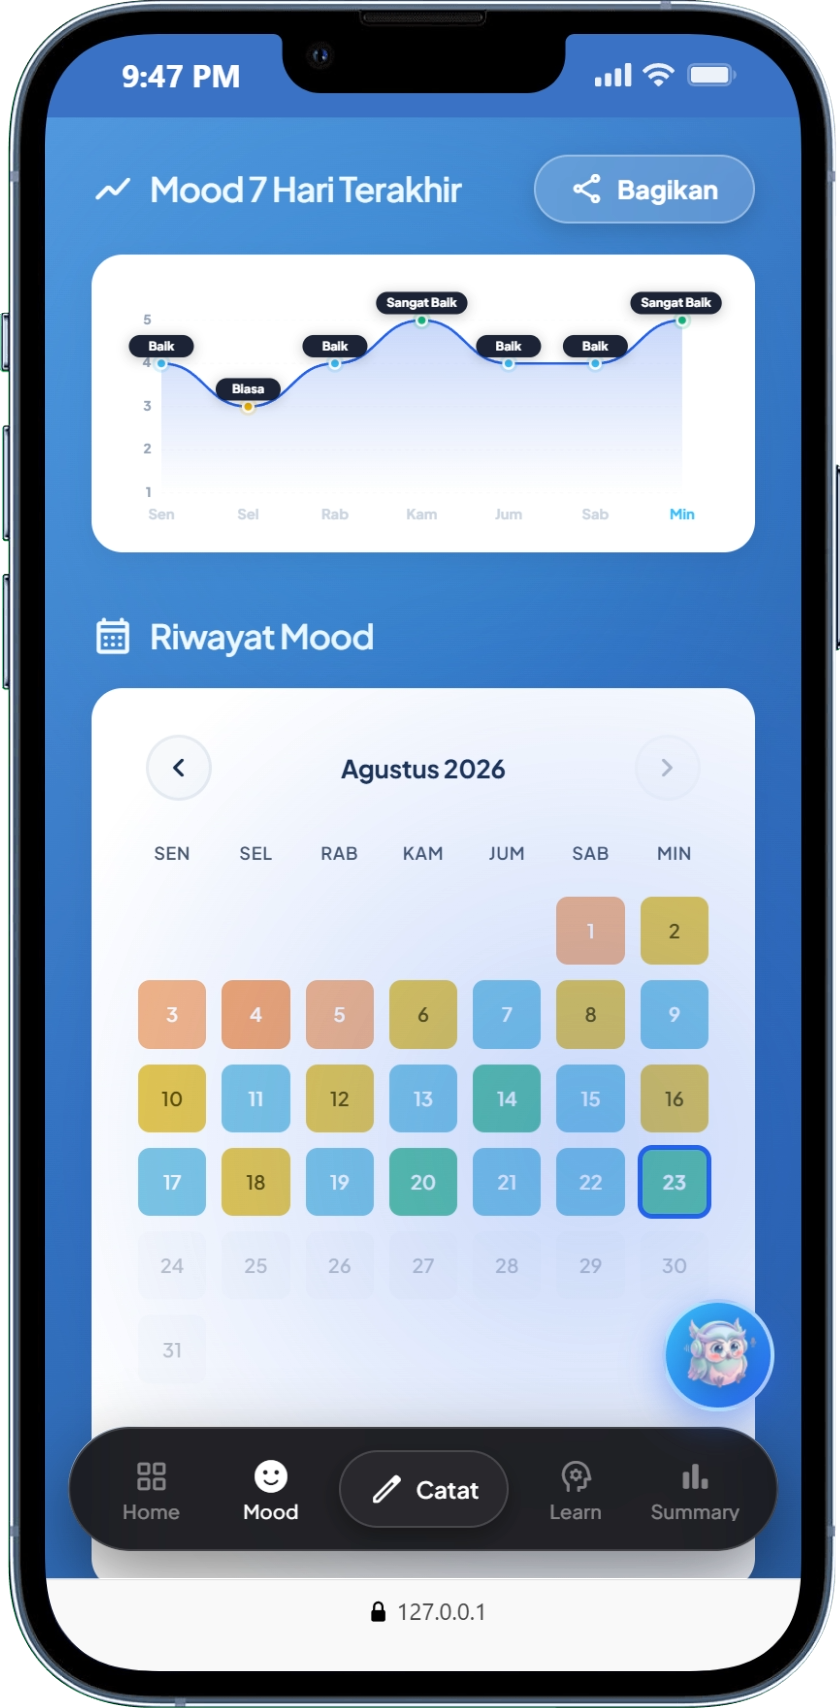
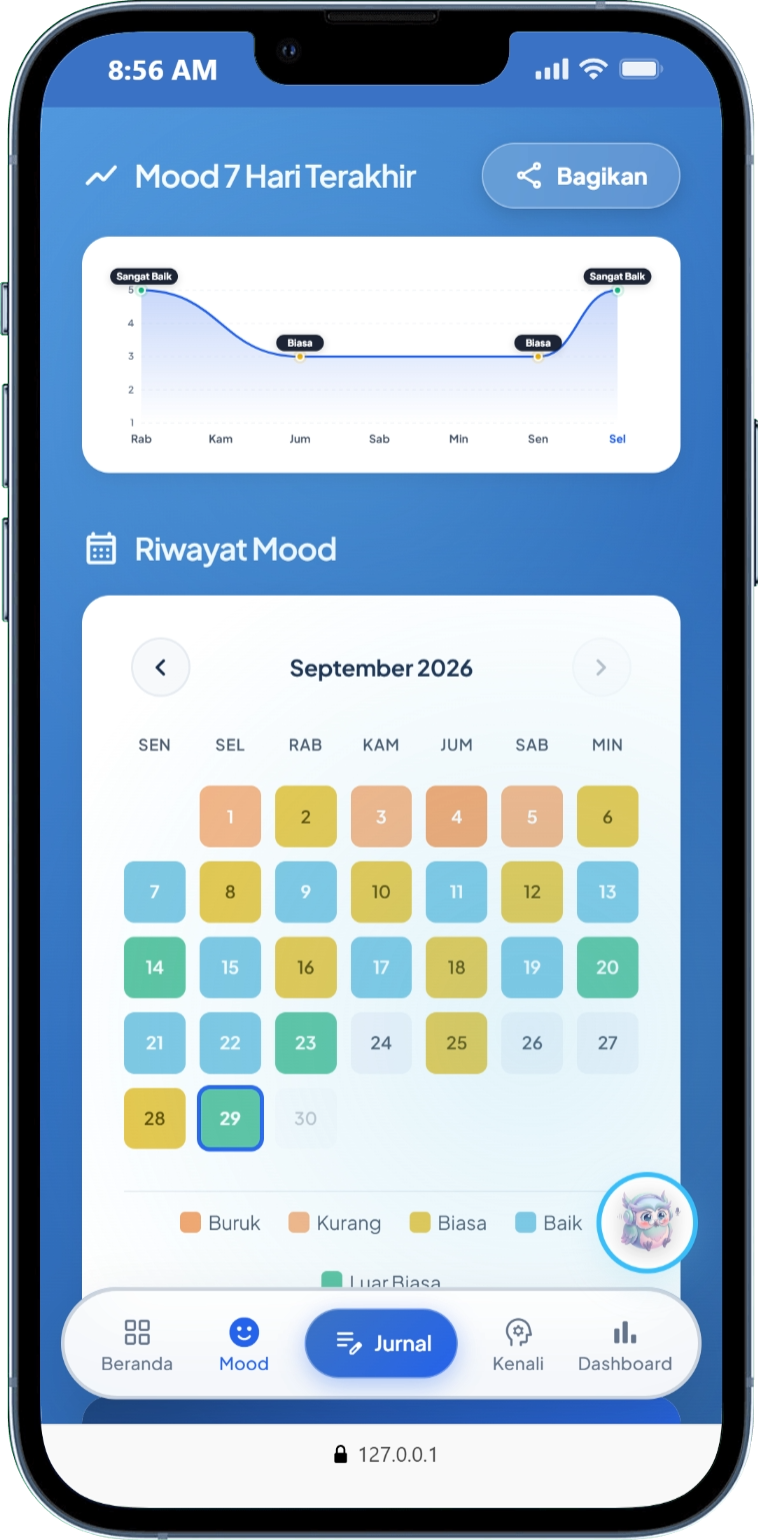
Fix mobile mascot video playback, update check-in default data to September, and hide total check-in badge on mobile

diff --git a/assets/js/storage.js b/assets/js/storage.js
@@ -44,34 +44,55 @@ const Storage = (() => {
     return Math.round(Math.abs((new Date(d1) - new Date(d2)) / oneDay));
   };
 
-  const defaultAugustMoods = [
-    {"date":"2026-08-01","timestamp":1785614400000,"level":2,"score":2,"tags":["lelah"],"note":"Hari yang cukup melelahkan setelah minggu padat"},
-    {"date":"2026-08-02","timestamp":1785700800000,"level":3,"score":3,"tags":["tenang"],"note":"Istirahat santai di rumah"},
-    {"date":"2026-08-03","timestamp":1785787200000,"level":2,"score":2,"tags":["cemas"],"note":"Kecemasan mulai datang jelang awal pekan"},
-    {"date":"2026-08-04","timestamp":1785873600000,"level":1,"score":1,"tags":["stres","lelah"],"note":"Pikiran terbebani dan emosi terasa berat"},
-    {"date":"2026-08-05","timestamp":1785960000000,"level":2,"score":2,"tags":["bingung"],"note":"Coba pelan-pelan menata pikiran"},
-    {"date":"2026-08-06","timestamp":1786046400000,"level":3,"score":3,"tags":["tenang"],"note":"Sudah sedikit lebih stabil"},
-    {"date":"2026-08-07","timestamp":1786132800000,"level":4,"score":4,"tags":["lega"],"note":"Berhasil menyelesaikan tugas tepat waktu"},
-    {"date":"2026-08-08","timestamp":1786219200000,"level":3,"score":3,"tags":["bersyukur"],"note":"Menikmati akhir pekan dengan tenang"},
-    {"date":"2026-08-09","timestamp":1786305600000,"level":4,"score":4,"tags":["semangat"],"note":"Siap menyambut minggu baru"},
-    {"date":"2026-08-10","timestamp":1786392000000,"level":3,"score":3,"tags":["tenang"],"note":"Rutinitas berjalan lancar"},
-    {"date":"2026-08-11","timestamp":1786478400000,"level":4,"score":4,"tags":["bersyukur"],"note":"Mulai rutin grounding dan pernapasan"},
-    {"date":"2026-08-12","timestamp":1786564800000,"level":3,"score":3,"tags":["bingung"],"note":"Ada sedikit dilema tapi bisa diatasi"},
-    {"date":"2026-08-13","timestamp":1786651200000,"level":4,"score":4,"tags":["semangat"],"note":"Merasa energi positif meningkat"},
-    {"date":"2026-08-14","timestamp":1786737600000,"level":5,"score":5,"tags":["bersyukur","tenang"],"note":"Hari yang sangat berkesan dan membahagiakan"},
-    {"date":"2026-08-15","timestamp":1786824000000,"level":4,"score":4,"tags":["lega"],"note":"Perasaan damai dan puas"},
-    {"date":"2026-08-16","timestamp":1786910400000,"level":3,"score":3,"tags":["tenang"],"note":"Meremajakan pikiran"},
-    {"date":"2026-08-17","timestamp":1786996800000,"level":4,"score":4,"tags":["semangat"],"note":"Semangat kemerdekaan dan rasa syukur"},
-    {"date":"2026-08-18","timestamp":1787083200000,"level":3,"score":3,"tags":["lelah"],"note":"Agak lelah tapi tetap bersyukur"},
-    {"date":"2026-08-19","timestamp":1787169600000,"level":4,"score":4,"tags":["tenang"],"note":"Fokus pada hal yang bisa dikontrol"},
-    {"date":"2026-08-20","timestamp":1787256000000,"level":5,"score":5,"tags":["bersyukur","semangat"],"note":"Perkembangan diri terasa nyata!"},
-    {"date":"2026-08-21","timestamp":1787342400000,"level":4,"score":4,"tags":["lega"],"note":"Beban pikiran semakin berkurang"},
-    {"date":"2026-08-22","timestamp":1787428800000,"level":4,"score":4,"tags":["tenang"],"note":"Pikiran jernih dan penuh harapan"},
-    {"date":"2026-08-23","timestamp":1787515200000,"level":5,"score":5,"tags":["bersyukur","semangat"],"note":"Merasa sangat tenang, kuat, dan bahagia hari ini"}
+  const defaultSeptemberMoods = [
+    {"date":"2026-09-01","timestamp":1788292800000,"level":2,"score":2,"tags":["lelah"],"note":"Hari yang cukup melelahkan setelah minggu padat"},
+    {"date":"2026-09-02","timestamp":1788379200000,"level":3,"score":3,"tags":["tenang"],"note":"Istirahat santai di rumah"},
+    {"date":"2026-09-03","timestamp":1788465600000,"level":2,"score":2,"tags":["cemas"],"note":"Kecemasan mulai datang jelang awal pekan"},
+    {"date":"2026-09-04","timestamp":1788552000000,"level":1,"score":1,"tags":["stres","lelah"],"note":"Pikiran terbebani dan emosi terasa berat"},
+    {"date":"2026-09-05","timestamp":1788638400000,"level":2,"score":2,"tags":["bingung"],"note":"Coba pelan-pelan menata pikiran"},
+    {"date":"2026-09-06","timestamp":1788724800000,"level":3,"score":3,"tags":["tenang"],"note":"Sudah sedikit lebih stabil"},
+    {"date":"2026-09-07","timestamp":1788811200000,"level":4,"score":4,"tags":["lega"],"note":"Berhasil menyelesaikan tugas tepat waktu"},
+    {"date":"2026-09-08","timestamp":1788897600000,"level":3,"score":3,"tags":["bersyukur"],"note":"Menikmati akhir pekan dengan tenang"},
+    {"date":"2026-09-09","timestamp":1788984000000,"level":4,"score":4,"tags":["semangat"],"note":"Siap menyambut minggu baru"},
+    {"date":"2026-09-10","timestamp":1789070400000,"level":3,"score":3,"tags":["tenang"],"note":"Rutinitas berjalan lancar"},
+    {"date":"2026-09-11","timestamp":1789156800000,"level":4,"score":4,"tags":["bersyukur"],"note":"Mulai rutin grounding dan pernapasan"},
+    {"date":"2026-09-12","timestamp":1789243200000,"level":3,"score":3,"tags":["bingung"],"note":"Ada sedikit dilema tapi bisa diatasi"},
+    {"date":"2026-09-13","timestamp":1789329600000,"level":4,"score":4,"tags":["semangat"],"note":"Merasa energi positif meningkat"},
+    {"date":"2026-09-14","timestamp":1789416000000,"level":5,"score":5,"tags":["bersyukur","tenang"],"note":"Hari yang sangat berkesan dan membahagiakan"},
+    {"date":"2026-09-15","timestamp":1789502400000,"level":4,"score":4,"tags":["lega"],"note":"Perasaan damai dan puas"},
+    {"date":"2026-09-16","timestamp":1789588800000,"level":3,"score":3,"tags":["tenang"],"note":"Meremajakan pikiran"},
+    {"date":"2026-09-17","timestamp":1789675200000,"level":4,"score":4,"tags":["semangat"],"note":"Semangat kemerdekaan dan rasa syukur"},
+    {"date":"2026-09-18","timestamp":1789761600000,"level":3,"score":3,"tags":["lelah"],"note":"Agak lelah tapi tetap bersyukur"},
+    {"date":"2026-09-19","timestamp":1789848000000,"level":4,"score":4,"tags":["tenang"],"note":"Fokus pada hal yang bisa dikontrol"},
+    {"date":"2026-09-20","timestamp":1789934400000,"level":5,"score":5,"tags":["bersyukur","semangat"],"note":"Perkembangan diri terasa nyata!"},
+    {"date":"2026-09-21","timestamp":1790020800000,"level":4,"score":4,"tags":["lega"],"note":"Beban pikiran semakin berkurang"},
+    {"date":"2026-09-22","timestamp":1790107200000,"level":4,"score":4,"tags":["tenang"],"note":"Pikiran jernih dan penuh harapan"},
+    {"date":"2026-09-23","timestamp":1790193600000,"level":5,"score":5,"tags":["bersyukur","semangat"],"note":"Merasa sangat tenang, kuat, dan bahagia hari ini"}
   ];
 
   // ---- Mood Functions ----
-  const getMoods = () => getJSON('tenang_moods', defaultAugustMoods);
+  const getMoods = () => {
+    let moods = getJSON('tenang_moods', null);
+    if (!moods) {
+      moods = defaultSeptemberMoods;
+    } else {
+      let updated = false;
+      moods = moods.map(m => {
+        if (m.date && m.date.startsWith('2026-08-')) {
+          updated = true;
+          const newDate = m.date.replace('2026-08-', '2026-09-');
+          const dayNum = parseInt(m.date.split('-')[2], 10);
+          const newTs = 1788292800000 + ((dayNum - 1) * 86400000);
+          return { ...m, date: newDate, timestamp: newTs };
+        }
+        return m;
+      });
+      if (updated) {
+        setJSON('tenang_moods', moods);
+      }
+    }
+    return moods;
+  };
 
   const saveMood = (data) => {
     const moods = getMoods();

diff --git a/assets/js/animations.js b/assets/js/animations.js
@@ -231,9 +231,16 @@ const Animations = (() => {
     video.autoplay = true;
     video.loop = true;
     video.muted = true;
+    video.defaultMuted = true;
     video.playsInline = true;
+    video.setAttribute('playsinline', '');
+    video.setAttribute('webkit-playsinline', '');
+    video.setAttribute('muted', '');
+    video.setAttribute('autoplay', '');
+    video.setAttribute('loop', '');
     video.setAttribute('aria-hidden', 'true');
-    video.style.cssText = 'position:absolute; width:1px; height:1px; opacity:0.01; pointer-events:none;';
+    // Full container dimensions with opacity 0.001 so mobile engines treat video as active/visible for playback
+    video.style.cssText = 'position:absolute; top:0; left:0; width:100%; height:100%; opacity:0.001; pointer-events:none; z-index:-1;';
 
     const canvas = document.createElement('canvas');
     canvas.width = 480;
@@ -250,17 +257,24 @@ const Animations = (() => {
     let animId = null;
     let hasRenderedFirstFrame = false;
 
-    video.addEventListener('loadedmetadata', () => {
-      canvas.width = video.videoWidth || 300;
-      canvas.height = video.videoHeight || 300;
-    });
+    const setDimensions = () => {
+      if (video.videoWidth > 0 && video.videoHeight > 0) {
+        canvas.width = video.videoWidth;
+        canvas.height = video.videoHeight;
+      }
+    };
+
+    video.addEventListener('loadedmetadata', setDimensions);
+    video.addEventListener('loadeddata', setDimensions);
+    video.addEventListener('canplay', setDimensions);
 
     const renderFrame = () => {
-      if (video.paused || video.ended) {
+      if (video.paused || video.ended || video.readyState < 2) {
         animId = requestAnimationFrame(renderFrame);
         return;
       }
 
+      setDimensions();
       ctx.drawImage(video, 0, 0, canvas.width, canvas.height);
       const frame = ctx.getImageData(0, 0, canvas.width, canvas.height);
       const data = frame.data;
@@ -287,20 +301,43 @@ const Animations = (() => {
       if (!hasRenderedFirstFrame) {
         hasRenderedFirstFrame = true;
         fallbackImg.style.opacity = '0';
-        setTimeout(() => { fallbackImg.style.display = 'none'; }, 350);
+        setTimeout(() => { fallbackImg.style.display = 'none'; }, 300);
       }
 
       animId = requestAnimationFrame(renderFrame);
     };
 
-    video.play().then(() => {
-      renderFrame();
-    }).catch(() => {
-      // Fallback if autoplay is blocked
-      canvas.style.display = 'none';
-      fallbackImg.style.opacity = '1';
-      fallbackImg.style.display = 'block';
-    });
+    video.load();
+
+    const startPlayback = () => {
+      video.muted = true;
+      const playPromise = video.play();
+      if (playPromise !== undefined) {
+        playPromise.then(() => {
+          if (!animId) animId = requestAnimationFrame(renderFrame);
+        }).catch((err) => {
+          console.warn('Initial celebration video play failed, retrying muted:', err);
+          setTimeout(() => {
+            video.muted = true;
+            video.play().then(() => {
+              if (!animId) animId = requestAnimationFrame(renderFrame);
+            }).catch((err2) => {
+              console.warn('Retry autoplay failed on mobile, using static mascot fallback:', err2);
+              canvas.style.display = 'none';
+              fallbackImg.style.opacity = '1';
+              fallbackImg.style.display = 'block';
+            });
+          }, 150);
+        });
+      }
+    };
+
+    if (video.readyState >= 2) {
+      startPlayback();
+    } else {
+      video.addEventListener('canplay', startPlayback, { once: true });
+      startPlayback();
+    }
 
     return () => {
       if (animId) cancelAnimationFrame(animId);

diff --git a/assets/js/landing.js b/assets/js/landing.js
@@ -1137,15 +1137,6 @@ function initTemanVideoChromaKey() {
   }
 
   function renderFrame() {
-    if (window.innerWidth <= 768) {
-      if (!video.paused) video.pause();
-      if (animId) {
-        cancelAnimationFrame(animId);
-        animId = null;
-      }
-      return;
-    }
-
     if (video.paused || video.ended) {
       animId = requestAnimationFrame(renderFrame);
       return;
@@ -1158,20 +1149,17 @@ function initTemanVideoChromaKey() {
   video.muted = true;
   video.loop = true;
   video.playsInline = true;
+  video.setAttribute('playsinline', '');
+  video.setAttribute('webkit-playsinline', '');
+  video.setAttribute('muted', '');
 
   const startPlay = () => {
-    if (window.innerWidth <= 768) {
-      if (!video.paused) video.pause();
-      return;
-    }
+    video.muted = true;
     video.play().then(() => {
       if (!animId) animId = requestAnimationFrame(renderFrame);
     }).catch(() => {
       const handleUserGesture = () => {
-        if (window.innerWidth <= 768) {
-          if (!video.paused) video.pause();
-          return;
-        }
+        video.muted = true;
         video.play().catch(() => {});
         if (!animId) animId = requestAnimationFrame(renderFrame);
         window.removeEventListener('click', handleUserGesture);
@@ -1185,17 +1173,9 @@ function initTemanVideoChromaKey() {
   };
 
   window.addEventListener('resize', () => {
-    if (window.innerWidth <= 768) {
-      if (!video.paused) video.pause();
-      if (animId) {
-        cancelAnimationFrame(animId);
-        animId = null;
-      }
-    } else {
-      if (video.paused && video.readyState >= 2) {
-        video.play().catch(() => {});
-        if (!animId) animId = requestAnimationFrame(renderFrame);
-      }
+    if (video.paused && video.readyState >= 2) {
+      video.play().catch(() => {});
+      if (!animId) animId = requestAnimationFrame(renderFrame);
     }
   });
 

diff --git a/assets/js/mood-tracker.js b/assets/js/mood-tracker.js
@@ -480,7 +480,7 @@ function renderInsights() {
               <span class="material-symbols-rounded" style="font-size:20px; color:#6366F1;">bar_chart</span>
               <span style="font-size:0.875rem; font-weight:800; color:var(--text-on-white);">Distribusi Mood</span>
             </div>
-            <span style="font-size:0.72rem; font-weight:700; color:var(--text-secondary); background:rgba(99, 102, 241, 0.12); padding:3px 10px; border-radius:20px;">
+            <span class="total-checkin-badge" style="font-size:0.72rem; font-weight:700; color:var(--text-secondary); background:rgba(99, 102, 241, 0.12); padding:3px 10px; border-radius:20px;">
               Total: ${moods.length} Check-in
             </span>
           </div>

diff --git a/beranda.html b/beranda.html
@@ -563,7 +563,7 @@
 
         <!-- User Name & Reflection Date Under Quote -->
         <div style="font-size: 0.75rem; color: rgba(255, 255, 255, 0.9); font-weight: 700; margin-bottom: 8px; text-align: center;">
-          <span id="streak-share-username" style="color: #FFFFFF;">User Tenang.in</span> · <span id="streak-share-date" style="color: rgba(255,255,255,0.85); font-weight: 500;">30 Agustus 2026</span>
+          <span id="streak-share-username" style="color: #FFFFFF;">User Tenang.in</span> · <span id="streak-share-date" style="color: rgba(255,255,255,0.85); font-weight: 500;">30 September 2026</span>
         </div>
 
         <!-- Promo Footer (Consistent Centered Brand Footer Across All Share Cards) -->

diff --git a/assets/js/profil.js b/assets/js/profil.js
@@ -255,7 +255,7 @@ function renderProfileCard(type, result) {
   const rawName = (typeof Storage !== 'undefined' && Storage.getRawUserName) ? Storage.getRawUserName() : '';
   const kenaliResult = Storage.getQuizResult('kenali');
   const joinDate = Storage.getQuizResult('profil')?.completedAt;
-  const dateStr = joinDate ? new Date(joinDate).toLocaleDateString('id-ID', { day: 'numeric', month: 'long', year: 'numeric' }) : '13 Agustus 2026';
+  const dateStr = joinDate ? new Date(joinDate).toLocaleDateString('id-ID', { day: 'numeric', month: 'long', year: 'numeric' }) : '13 September 2026';
   const iconName = result.icon || result.emoji || 'dark_mode';
 
   cardSection.innerHTML = `

diff --git a/assets/css/landing.css b/assets/css/landing.css
@@ -3294,16 +3294,14 @@ body.preloader-active {
   }
 
   #teman-avatar-canvas {
-    display: none !important;
-  }
-
-  #teman-avatar-mobile-img {
     display: block !important;
     width: 100%;
     height: 100%;
     object-fit: contain;
-    transform: scale(1.18);
-    filter: drop-shadow(0 10px 25px rgba(56, 189, 248, 0.35));
+  }
+
+  #teman-avatar-mobile-img {
+    display: none !important;
   }
 
   .teman-speech-bubble {

diff --git a/assets/css/components.css b/assets/css/components.css
@@ -2792,3 +2792,10 @@ body.dark-mode .mood-card-sub {
 .card-prompt-clickable:active {
   transform: translateY(0) scale(0.99);
 }
+
+/* Hide Total Check-in header badge on mobile devices */
+@media (max-width: 768px) {
+  .total-checkin-badge {
+    display: none !important;
+  }
+}
